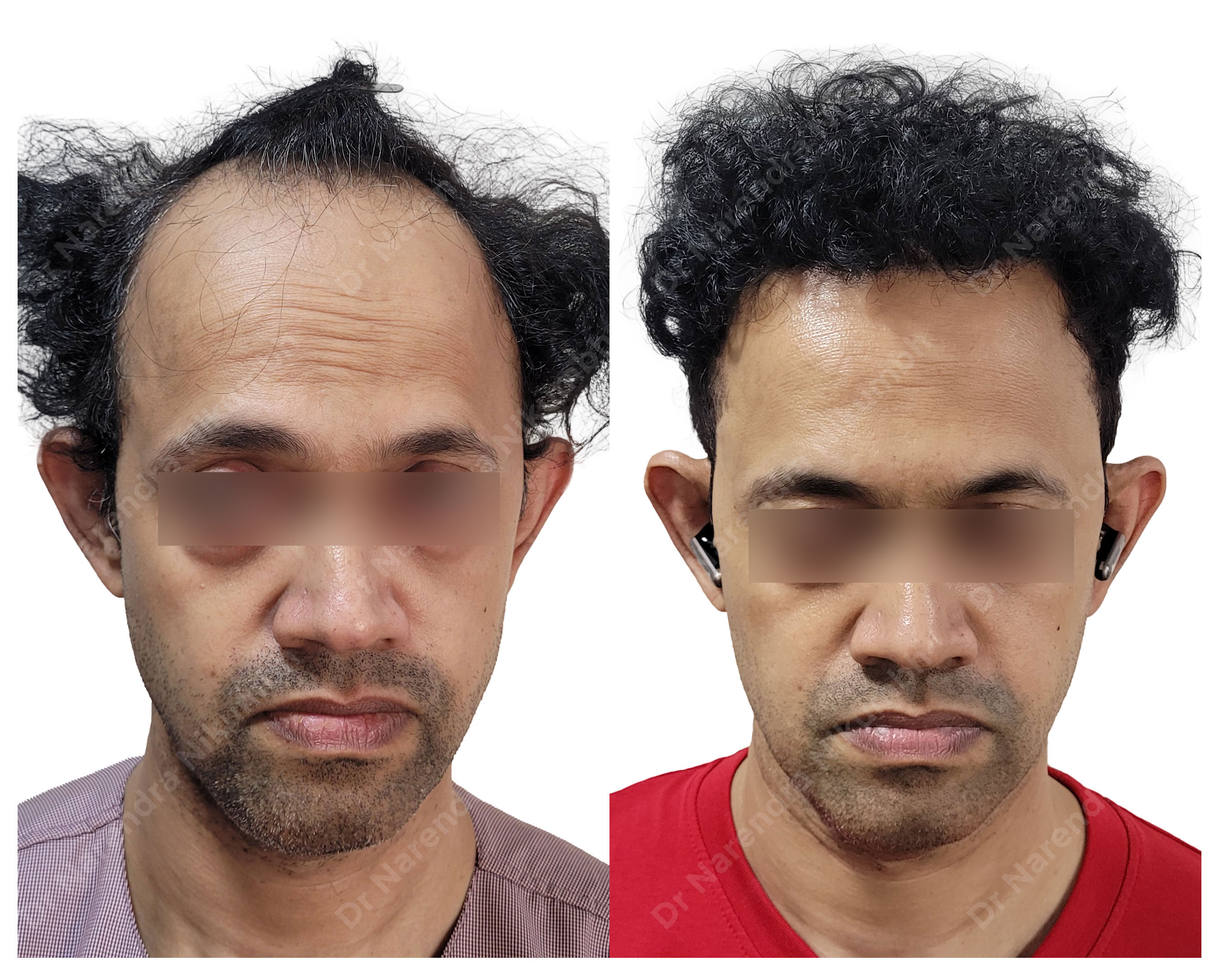
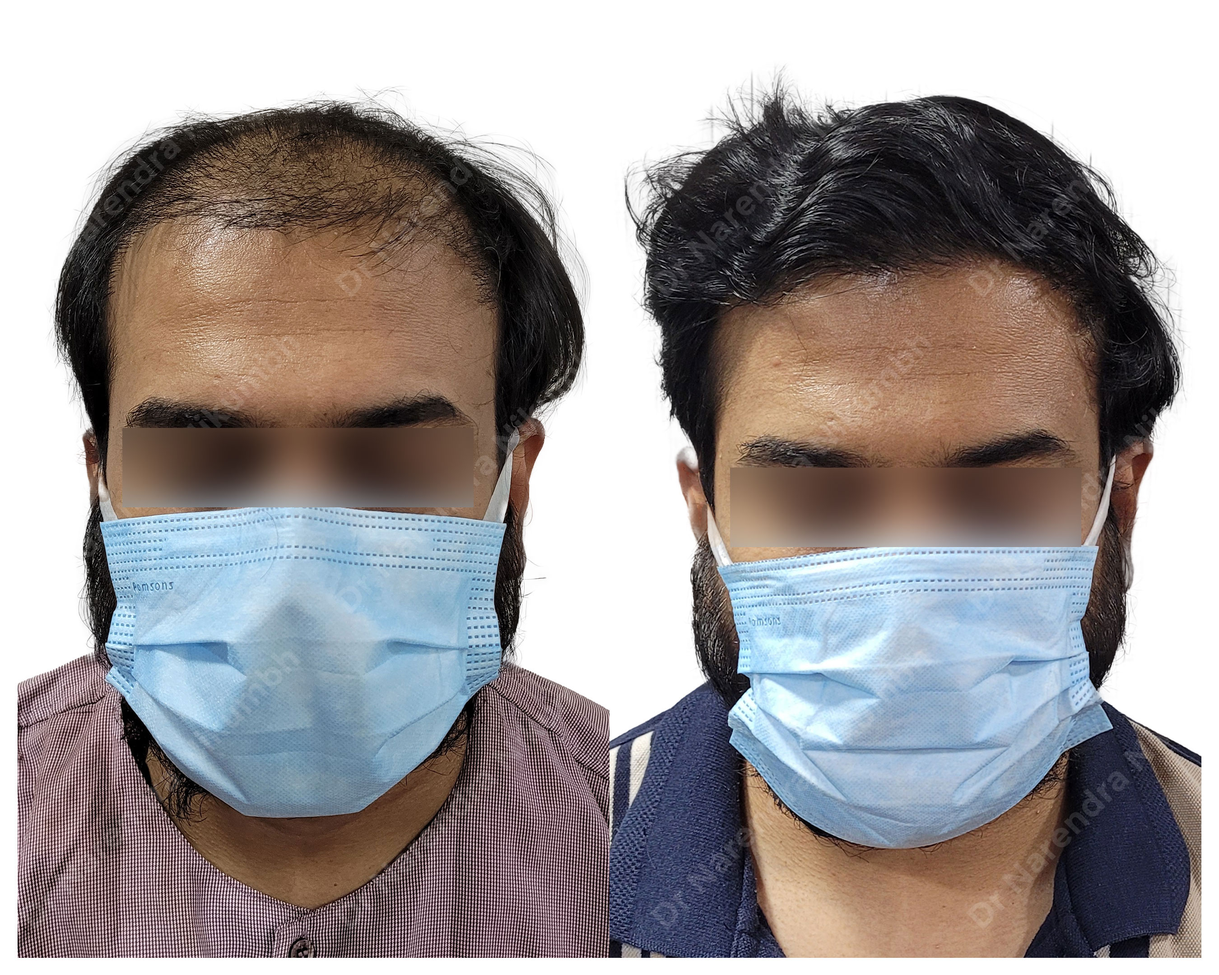
images addeds

diff --git a/component/beforeAfterImages.ts b/component/beforeAfterImages.ts
@@ -1,14 +1,20 @@
-const IMAGE_NUMBERS = [2, 6, 7, 8, 9, 12, 16, 18, 19, 20, 21, 24, 30, 31, 39, 46, 47]
+// Every before/after photo in /public. "30 (1)" is left out because it is the
+// same photo as "26" with a different crop.
+const PREFIX = "/Best Hair Transplant Clinic in Thane Infinity Aesthetics Clinic "
+const NAURAL = "Naural Hairline Dr Narendra Nikumbh HFD BIO FUE "
+const NATURAL = "Natural Hairline Dr Narendra Nikumbh HFD BIO FUE "
 
-function imagePath(number: number) {
-  // The file for 47 is spelled "Natural"; the rest use "Naural".
-  const hairline = number === 47 ? "Natural" : "Naural"
-  return encodeURI(
-    `/Best Hair Transplant Clinic in Thane Infinity Aesthetics Clinic ${hairline} Hairline Dr Narendra Nikumbh HFD BIO FUE ${number}.jpg`,
-  )
-}
+const FILES = [
+  ...[
+    "2", "3", "4", "5", "6", "7", "8", "9", "10", "11", "12", "13", "14", "14 (1)",
+    "15", "16", "17", "18", "19", "20", "21", "22", "23", "24", "25", "26", "27",
+    "28", "29", "30", "30b", "31", "31 (1)", "32", "33", "34", "34 (1)", "35",
+    "35 (1)", "36", "38", "39", "39 (1)", "40", "41", "42", "43", "44", "45", "46",
+  ].map((name) => NAURAL + name + ".jpg"),
+  ...["47", "48", "50", "51", "52", "53jpg", "54"].map((name) => NATURAL + name + ".jpg"),
+]
 
-export const BEFORE_AFTER_RESULTS = IMAGE_NUMBERS.map((number, index) => ({
-  src: imagePath(number),
+export const BEFORE_AFTER_RESULTS = FILES.map((file, index) => ({
+  src: encodeURI(PREFIX + file),
   alt: "Hair transplant before and after result " + (index + 1) + " – Infinity Aesthetics Clinic, Thane",
 }))

diff --git a/component/generic/BeforeAfter.tsx b/component/generic/BeforeAfter.tsx
@@ -130,24 +130,15 @@ export default function BeforeAfter() {
         </div>
 
         <div
-          className="mt-3 flex justify-center gap-2"
-          aria-label="Select a result"
+          className="mx-auto mt-3 flex max-w-xs items-center gap-3"
+          aria-live="polite"
         >
-          {RESULTS.map((result, index) => (
-            <button
-              key={result.src}
-              type="button"
-              onClick={() => setActiveIndex(index)}
-              aria-label={"Show result " + (index + 1)}
-              aria-current={index === activeIndex ? "true" : undefined}
-              className={
-                "h-2 rounded-full transition-all duration-300 " +
-                (index === activeIndex
-                  ? "w-8 bg-[#f52227]"
-                  : "w-2 bg-[#231f20]/25 hover:bg-[#231f20]/50")
-              }
+          <div className="h-1.5 flex-1 overflow-hidden rounded-full bg-[#231f20]/15">
+            <div
+              className="h-full rounded-full bg-[#f52227] transition-all duration-500"
+              style={{ width: ((activeIndex + 1) / RESULTS.length) * 100 + "%" }}
             />
-          ))}
+          </div>
         </div>
       </div>
     </section>

diff --git a/component/BeforeAfter.tsx b/component/BeforeAfter.tsx
@@ -159,22 +159,13 @@ export default function BeforeAfter() {
           </button>
         </div>
 
-        <div className="mt-3 flex justify-center gap-2" aria-label="Select a result">
-          {RESULTS.map((result, index) => (
-            <button
-              key={result.src}
-              type="button"
-              onClick={() => setActiveIndex(index)}
-              aria-label={"Show result " + (index + 1)}
-              aria-current={index === activeIndex ? "true" : undefined}
-              className={
-                "h-2 rounded-full transition-all duration-300 " +
-                (index === activeIndex
-                  ? "w-8 bg-[#f52227]"
-                  : "w-2 bg-[#231f20]/25 hover:bg-[#231f20]/50")
-              }
+        <div className="mx-auto mt-3 flex max-w-xs items-center gap-3" aria-live="polite">
+          <div className="h-1.5 flex-1 overflow-hidden rounded-full bg-[#231f20]/15">
+            <div
+              className="h-full rounded-full bg-[#f52227] transition-all duration-500"
+              style={{ width: ((activeIndex + 1) / RESULTS.length) * 100 + "%" }}
             />
-          ))}
+          </div>
         </div>
       </div>
     </section>
